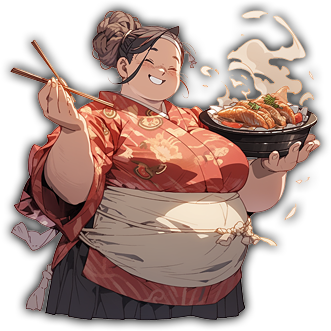
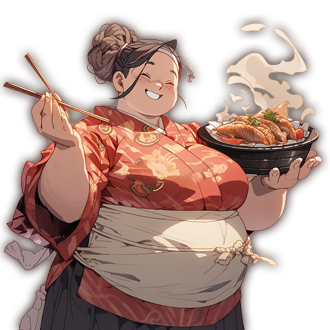
ramen

diff --git a/ui_components/src/ramen/RamenShop.css b/ui_components/src/ramen/RamenShop.css
@@ -97,7 +97,7 @@
 }
 
 .ramen_shop_owner_img {
-    margin-bottom: -20px;
+
 }
 
 /* Player Info */

diff --git a/classes/ramen_shop/RamenShopAPIPresenter.php b/classes/ramen_shop/RamenShopAPIPresenter.php
@@ -2,7 +2,7 @@
 
 class RamenShopAPIPresenter {
     public static function ramenShopOwnerResponse(System $system, User $player) {
-        $owner = RamenShopManager::loadRamenOwnerDetails($player);
+        $owner = RamenShopManager::loadRamenOwnerDetails($system, $player);
         return [
             "name" => $owner->name,
             "image" => $owner->image,
